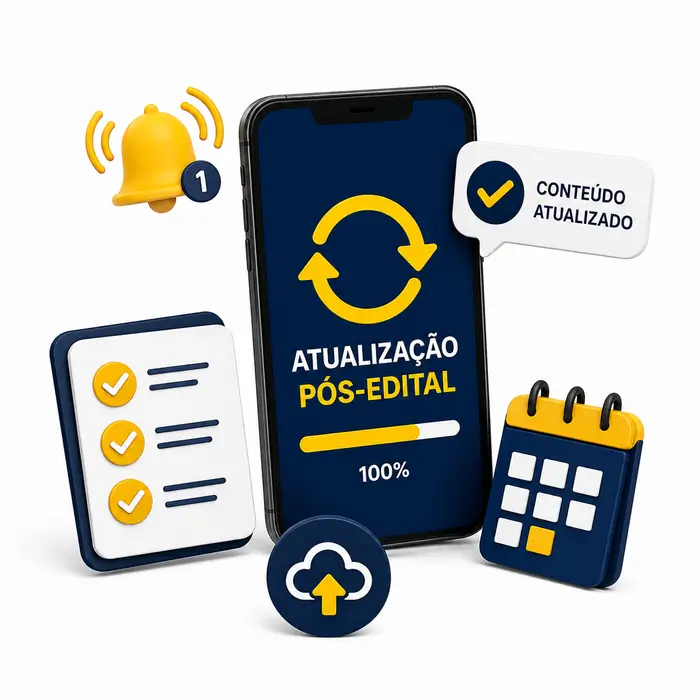
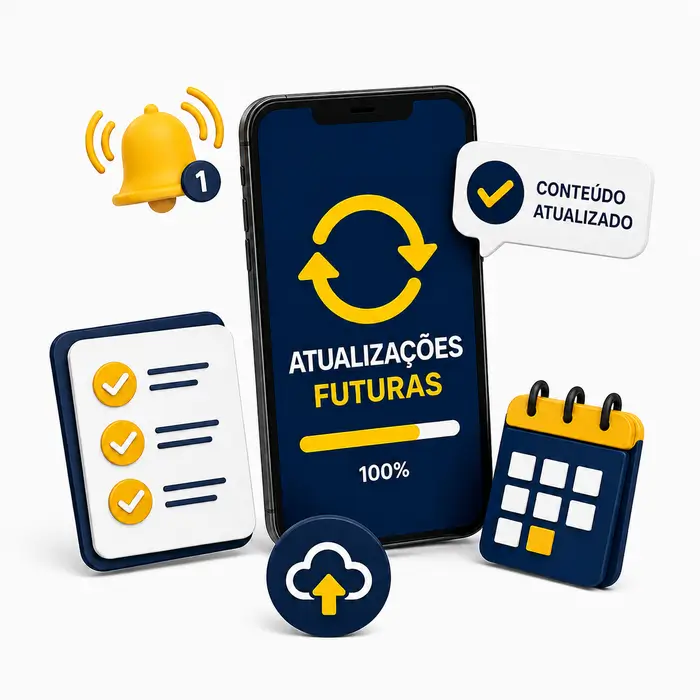
Atualização de Mockup

diff --git a/index.html b/index.html
@@ -842,7 +842,7 @@
             <div class="hero-left">
                 <h1 class="headline">Revise a <span class="hl-yellow">INFORMÁTICA</span> que cai no seu <span
                         class="hl-yellow">CONCURSO</span> com apenas 5 minutos diários no <span
-                        class="hl-yellow">FlashReview</span></h1>
+                        class="hl-yellow">App FlashReview</span></h1>
             </div>
             <div class="hero-right">
                 <img src="imgs/mockup-principal.webp" alt="Mockup Aplicativo FlashReview" fetchpriority="high"
